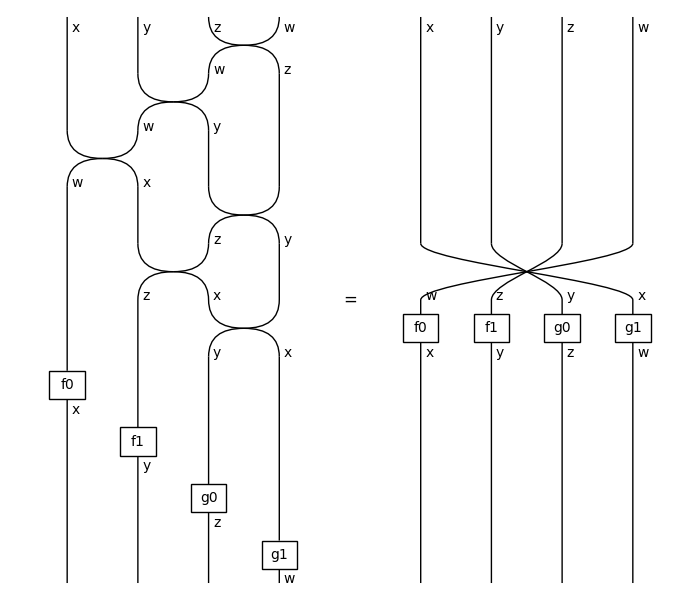
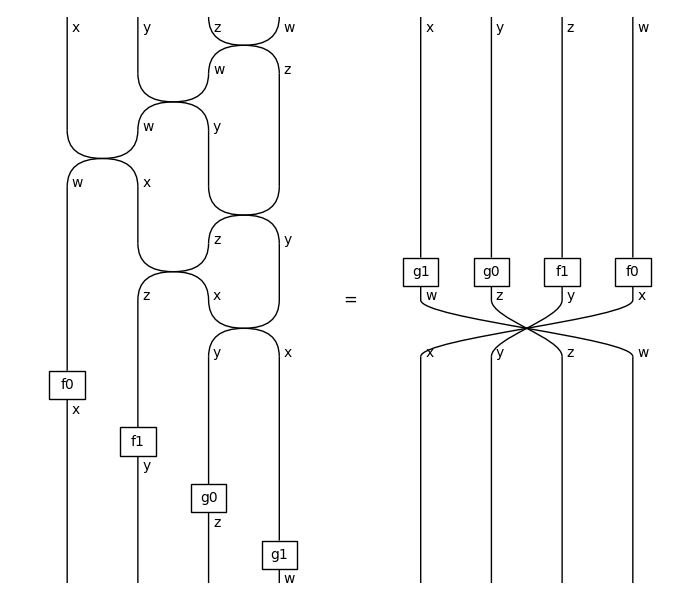
Foliate by scheduling boxes greedily in place
The old to_layers scheduled boxes as-soon-as-possible by depth, inserting a
routing permutation before every box-layer that gathered all of that layer's
inputs to the left. That produced gratuitous swaps even when the boxes could
already happen where they sat.

Rewrite the schedule to scan wires left to right: a box happens as soon as
its input wires are already lined up in the right order, otherwise the wire
is left as an identity. A permutation-only layer is inserted only when no box
can happen without reordering, and just brings the next box's inputs
together. Boxes therefore happen before permutations whenever possible; the
price is that a box needing its inputs reordered may land one layer later, so
the box-layer count is now a lower bound on the depth rather than equal to it.

Relax the random foliation test to assert depth as a lower bound, and refresh
the foliation doctest image.

Claude-Session: https://claude.ai/code/session_01Vi9uin4iSwSNJQBhjqVEVg

Changed region(s): [[0.57, 0.39, 0.93, 0.6]]

diff --git a/discopy/symmetric.py b/discopy/symmetric.py
@@ -586,15 +586,18 @@ class Diagram(balanced.Diagram, SymmetricCategory):
 
     def to_layers(self) -> list[Layer]:
         """
-        Foliate into the smallest possible list of symmetric :class:`Layer`,
-        encoding permutations natively rather than as networks of swaps.
+        Foliate into a list of symmetric :class:`Layer`, encoding permutations
+        natively rather than as networks of swaps.
 
-        The boxes are scheduled as early as possible (ASAP), so that the
-        number of box-bearing layers equals the depth of the diagram. Swaps
-        are absorbed into :class:`Permutation`-only layers that route wires
-        between consecutive box-layers; identity permutations are dropped and
-        consecutive permutation-only layers are merged, so permutations are
-        compressed as much as the segmented structure of a layer allows.
+        Boxes are scheduled greedily, in place: scanning the wires from left to
+        right, a box happens as soon as its input wires are already lined up in
+        the right order, otherwise the wire is left as an identity. A
+        :class:`Permutation`-only layer is inserted only when no box can happen
+        without reordering, and just brings the next box's inputs together.
+        This avoids the gratuitous swaps of an ASAP schedule that gathers every
+        box to the left, at the cost of occasionally using one more box-layer.
+        Identity permutations are dropped and consecutive permutation-only
+        layers are merged.
 
         Examples
         --------
@@ -606,9 +609,10 @@ class Diagram(balanced.Diagram, SymmetricCategory):
         >>> layers = (f >> g).to_layers()
         >>> assert [bool(l.boxes) for l in layers] == [True, True]
 
-        Parallel boxes are merged into a single layer:
+        Parallel boxes already in order happen together, with no permutation:
 
         >>> layers = (f @ g.dom >> f.cod @ g).to_layers()
+        >>> assert len(layers) == 1 and len(layers[0].boxes) == 2
 
         Swaps become permutation-only layers and round-trip on the nose:
 
@@ -620,11 +624,10 @@ class Diagram(balanced.Diagram, SymmetricCategory):
             raise NotImplementedError
         empty = self.dom[:0]
         n = len(self.dom)
-        # --- Pass 1: track wires through the diagram, scheduling boxes ASAP.
+        # --- Pass 1: track wires, recording each box's input and output wires.
         frontier = list(range(n))
         wire_type = {i: self.dom[i] for i in range(n)}
-        depth = {i: 0 for i in range(n)}
-        next_id, records = n, []  # records: (box, in_wids, out_wids, layer)
+        next_id, records = n, []  # records: (box, in_wids, out_wids)
         for layer in self.inside:
             delta = 0
             for box, offset in layer.boxes_and_offsets:
@@ -636,16 +639,13 @@ class Diagram(balanced.Diagram, SymmetricCategory):
                     continue
                 out_wids = list(range(next_id, next_id + dim_cod))
                 next_id += dim_cod
-                box_layer = 1 + max((depth[w] for w in in_wids), default=0)
                 for i, w in enumerate(out_wids):
-                    depth[w], wire_type[w] = box_layer, box.cod[i]
+                    wire_type[w] = box.cod[i]
                 frontier[off:off + dim_dom] = out_wids
                 delta += dim_cod - dim_dom
-                records.append((box, in_wids, out_wids, box_layer))
+                records.append((box, tuple(in_wids), tuple(out_wids)))
         output_wids = list(frontier)
-        n_layers = max((layer for _, _, _, layer in records), default=0)
 
-        # --- Pass 2: build a routing permutation then the box-layer per depth.
         def type_of(wids):
             return empty.tensor(*[wire_type[w] for w in wids])
 
@@ -654,20 +654,52 @@ class Diagram(balanced.Diagram, SymmetricCategory):
             return Layer(Permutation(
                 [index[w] for w in target], type_of(source)))
 
-        result, cur = [], list(range(n))
-        for box_layer in range(1, n_layers + 1):
-            in_layer = [r for r in records if r[3] == box_layer]
-            consumed = [w for _, in_wids, _, _ in in_layer for w in in_wids]
-            passthrough = [w for w in cur if w not in set(consumed)]
-            result.append(route(cur, consumed + passthrough))
-            inside = []
-            for box, _, _, _ in in_layer:
-                inside += [Permutation.id(empty), box]
-            inside.append(Permutation.id(type_of(passthrough)))
-            result.append(Layer(*inside))
-            cur = [w for _, _, out_wids, _ in in_layer for w in out_wids]\
-                + passthrough
-        result.append(route(cur, output_wids))
+        # --- Pass 2: schedule boxes greedily in place, scanning left to right.
+        result, frontier, remaining = [], list(range(n)), list(records)
+        while remaining:
+            old, first_input, empties = list(frontier), {}, []
+            for rec in remaining:
+                if rec[1]:
+                    first_input.setdefault(rec[1][0], rec)
+                else:
+                    empties.append(rec)
+            # Empty-domain boxes have no trigger wire, so happen straightaway.
+            segments = [("box", r) for r in empties]
+            fired, i = list(empties), 0
+            while i < len(old):
+                rec = first_input.get(old[i])
+                if rec is not None and tuple(old[i:i + len(rec[1])]) == rec[1]:
+                    segments.append(("box", rec))
+                    fired.append(rec)
+                    i += len(rec[1])
+                else:
+                    segments.append(("wire", old[i]))
+                    i += 1
+            if fired:
+                inside, block = [], []
+                for kind, val in segments:
+                    if kind == "wire":
+                        block.append(val)
+                    else:
+                        inside += [Permutation.id(type_of(block)), val[0]]
+                        block = []
+                inside.append(Permutation.id(type_of(block)))
+                result.append(Layer(*inside))
+                frontier = [w for kind, val in segments for w in (
+                    [val] if kind == "wire" else val[2])]
+                done = set(map(id, fired))
+                remaining = [r for r in remaining if id(r) not in done]
+            else:  # Nobody can happen: permute to line up the next box.
+                avail = [r for r in remaining if set(r[1]) <= set(frontier)]
+                in_wids = min(avail, key=lambda r: min(
+                    frontier.index(w) for w in r[1]))[1]
+                kept = [w for w in frontier if w not in set(in_wids)]
+                k = sum(1 for w in kept if frontier.index(w) < min(
+                    frontier.index(v) for v in in_wids))
+                target = kept[:k] + list(in_wids) + kept[k:]
+                result.append(route(frontier, target))
+                frontier = target
+        result.append(route(frontier, output_wids))
 
         # --- Pass 3: drop identities and merge consecutive permutations.
         layers = []

diff --git a/test/syntax/symmetric.py b/test/syntax/symmetric.py
@@ -113,7 +113,7 @@ def test_Layer():
         Layer(Permutation.id(x), f)
 
 
-def _check_foliation(d, depth=None):
+def _check_foliation(d, depth=None, exact=True):
     layers = d.to_layers()
     # consecutive layers compose and match the diagram boundary
     for first, second in zip(layers, layers[1:]):
@@ -125,7 +125,9 @@ def _check_foliation(d, depth=None):
         assert Diagram.from_layers(layers) == d
     n_box_layers = sum(1 for layer in layers if layer.boxes)
     if depth is not None:
-        assert n_box_layers == depth
+        # In-place scheduling may use one more box-layer than the depth when a
+        # box needs its inputs reordered first, so depth is only a lower bound.
+        assert n_box_layers == depth if exact else n_box_layers >= depth
     return layers
 
 
@@ -185,4 +187,5 @@ def test_to_layers_random():
             # depth() is only reliable when every box has non-empty dom and cod
             reliable = all(len(b.dom) and len(b.cod) for b in diagram.boxes)
             _check_foliation(
-                diagram, depth=diagram.depth() if reliable else None)
+                diagram, depth=diagram.depth() if reliable else None,
+                exact=False)
